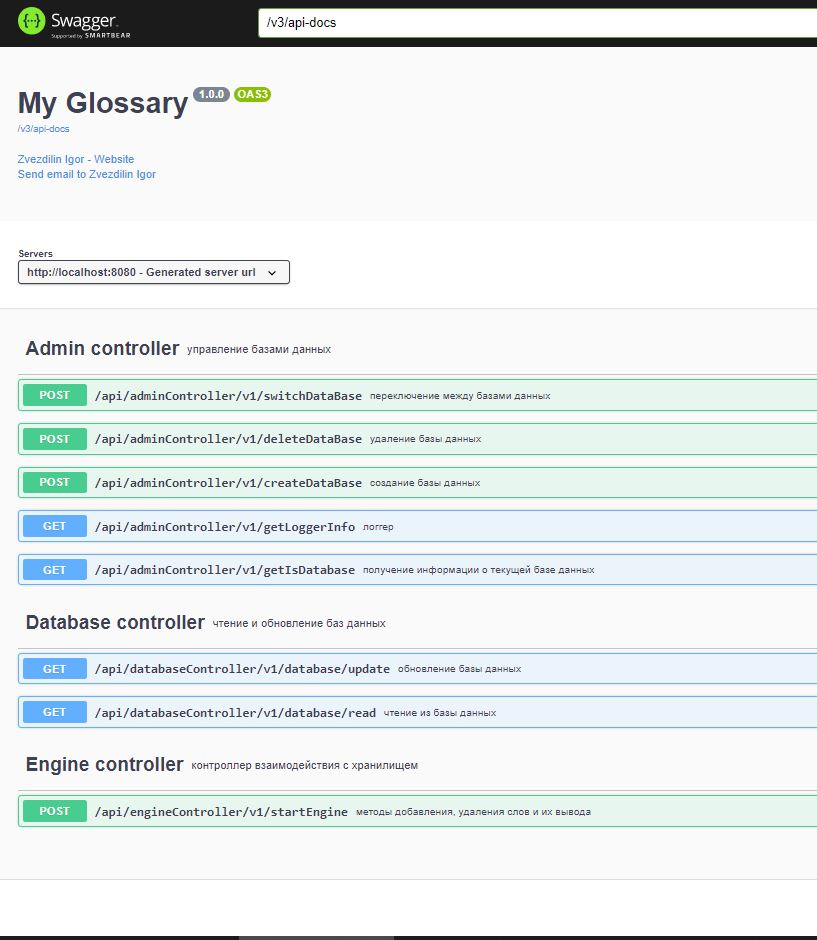
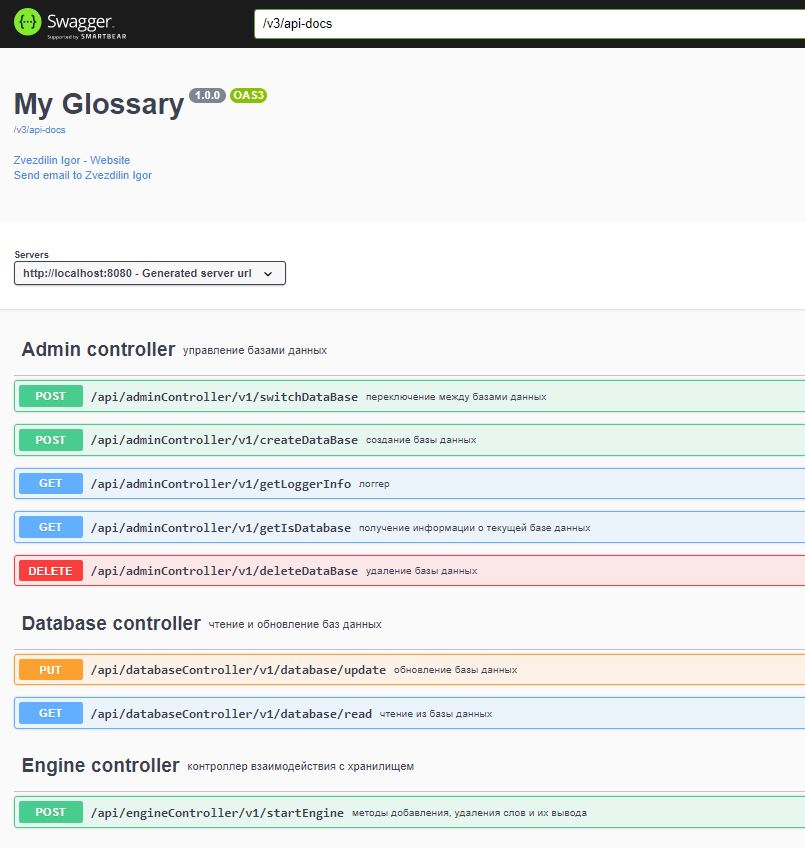
refactoring

Changed region(s): [[0.0, 0.2453, 1.0, 1.0], [0.0, 0.0, 1.0, 0.0613], [0.0, 0.092, 0.3416, 0.2146]]

diff --git a/Glossary/src/main/java/com/zvezdilin/Glossary/api/EngineController.java b/Glossary/src/main/java/com/zvezdilin/Glossary/api/EngineController.java
@@ -2,7 +2,6 @@ package com.zvezdilin.Glossary.api;
 
 import com.zvezdilin.Glossary.engine.Engine;
 import io.swagger.v3.oas.annotations.Operation;
-import io.swagger.v3.oas.annotations.media.Schema;
 import io.swagger.v3.oas.annotations.tags.Tag;
 import org.springframework.web.bind.annotation.*;
 
@@ -18,9 +17,8 @@ public class EngineController {
     }
 
     @Operation(
-            summary = "методы добавления, удаления слов и их вывода"
+            summary = "методы добавления, удаления слов и их вывода в режиме одного окна"
     )
-//    @Schema(description = "json-строка", example = "json-string")
     @PostMapping("startEngine")
     public String startEngine(@RequestBody String requestFromClientInJson) {
         String result = "";

diff --git a/Glossary/src/main/java/com/zvezdilin/Glossary/api/DatabaseController.java b/Glossary/src/main/java/com/zvezdilin/Glossary/api/DatabaseController.java
@@ -6,6 +6,7 @@ import com.zvezdilin.Glossary.database.postgresQL.PostgreSqlDao;
 import io.swagger.v3.oas.annotations.Operation;
 import io.swagger.v3.oas.annotations.tags.Tag;
 import org.springframework.web.bind.annotation.GetMapping;
+import org.springframework.web.bind.annotation.PutMapping;
 import org.springframework.web.bind.annotation.RequestMapping;
 import org.springframework.web.bind.annotation.RestController;
 
@@ -46,7 +47,7 @@ public class DatabaseController {
             summary = "обновление базы данных",
             description = "по умалчанию MongoDB"
     )
-    @GetMapping("database/update")
+    @PutMapping("database/update")
     public boolean updateDataBase() {
         boolean tmp;
         admin = AdminController.getAdmin();

diff --git a/Glossary/src/main/java/com/zvezdilin/Glossary/api/AdminController.java b/Glossary/src/main/java/com/zvezdilin/Glossary/api/AdminController.java
@@ -86,7 +86,7 @@ public class AdminController {
             summary = "удаление базы данных",
             description = "по умолчанию активна база данных MongoDB"
     )
-    @PostMapping(value = "deleteDataBase")
+    @DeleteMapping(value = "deleteDataBase")
     public String deleteDataBase() {
 
         boolean tmp;
